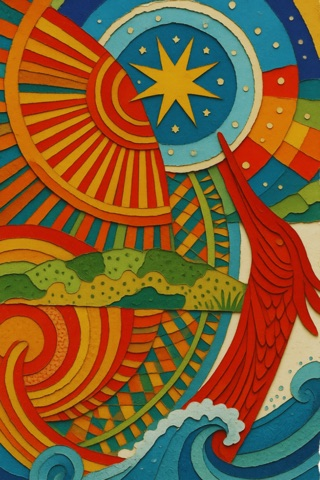
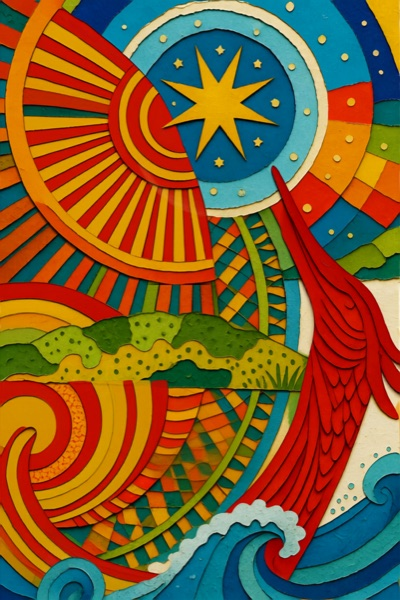
Complete Nicolas website review checklist

diff --git a/index.html b/index.html
@@ -1239,6 +1239,7 @@ dialog.order-dialog::backdrop{background:rgba(12,9,5,.86)}
 }
 </style>
 <link rel="stylesheet" href="assets/web/book-checkin.css">
+<link rel="stylesheet" href="assets/web/nicolas-checklist.css">
 </head>
 <body>
 <a class="skip" href="#t-join" id="skiplink">skip to Join the Hive</a>
@@ -1268,8 +1269,6 @@ dialog.order-dialog::backdrop{background:rgba(12,9,5,.86)}
           </defs>
         </svg>
         <svg class="hero-bee hero-bee-1" viewBox="0 0 48 48"><use href="#heroBee"/></svg>
-        <svg class="hero-bee hero-bee-2" viewBox="0 0 48 48"><use href="#heroBee"/></svg>
-        <svg class="hero-bee hero-bee-3" viewBox="0 0 48 48"><use href="#heroBee"/></svg>
       </div>
       <div class="wordmark">
         <svg class="wordmark-mark" viewBox="0 0 32 32" aria-hidden="true">
@@ -1322,12 +1321,12 @@ dialog.order-dialog::backdrop{background:rgba(12,9,5,.86)}
             <button class="hc-cell hc-2" type="button" data-jump="t-deck" aria-label="Open The Mantra Deck"><span class="hc-label">The Mantra Deck</span></button>
             <button class="hc-cell hc-3" type="button" data-jump="t-gallery" aria-label="Open The Moody Gallery"><span class="hc-label">The Moody<br>Gallery</span></button>
             <button class="hc-cell hc-4" type="button" data-jump="t-puzzles" aria-label="Open The Jigsaw Puzzles"><span class="hc-label">The Jigsaw<br>Puzzles</span></button>
-            <span class="hc-cell hc-5 hc-placeholder" role="status" aria-label="The Coloring Book, coming soon"><span class="hc-label">The Coloring<br>Book</span></span>
-            <button class="hc-cell hc-6" type="button" data-jump="t-podcast" aria-label="Open The Podcast, Nico and The Cool Kids"><span class="hc-label">The Podcast<br>Nico &amp; The Cool Kids</span></button>
-            <button class="hc-cell hc-7" type="button" data-jump="t-yours" aria-label="Open Make It Yours Community Products"><span class="hc-label">Make It Yours<br>Community Products</span></button>
+            <button class="hc-cell hc-5" type="button" data-jump="t-coloring" aria-label="Open The Coloring Book"><span class="hc-label">The Coloring<br>Book</span></button>
+            <button class="hc-cell hc-6" type="button" data-jump="t-podcast" aria-label="Open The Podcast, Nikko and The Kool Kids"><span class="hc-label">The Podcast<br>Nikko &amp; The Kool Kids</span></button>
+            <button class="hc-cell hc-7" type="button" data-jump="t-yours" aria-label="Open Make It Yours! Customs Products"><span class="hc-label">Make It Yours!<br>Customs Products</span></button>
             <button class="hc-cell hc-8" type="button" data-jump="t-market" aria-label="Open The Community Market"><span class="hc-label">The Community<br>Market</span></button>
             <button class="hc-cell hc-9" type="button" data-jump="t-story" aria-label="Open The Story"><span class="hc-label">The Story</span></button>
-            <span class="hc-cell hc-10 hc-placeholder" role="status" aria-label="Under Construction"><span class="hc-label">Under<br>Construction</span></span>
+            <span class="hc-cell hc-10 hc-placeholder" role="status" aria-label="Under Construction"><span class="hc-label">Under<br>Construction…</span></span>
           </div>
         </nav>
       </div>
@@ -1396,20 +1395,47 @@ dialog.order-dialog::backdrop{background:rgba(12,9,5,.86)}
             <div class="puzzle-tin-lid"><img src="assets/prints/sun-stone-theory.jpg" alt=""></div>
             <div class="puzzle-tin-side"><span>The Sun Bird</span><span>1,000 pieces</span></div>
           </div>
+          <figure class="puzzle-cut-preview">
+            <img src="assets/web/sun-bird-puzzle-outline.webp" alt="The complete Sun Bird artwork overlaid with the actual 1,000-piece jigsaw cut pattern" loading="lazy" width="800" height="1200">
+            <figcaption class="hand">The full 1,000-piece cut preview—so you can see exactly what arrives.</figcaption>
+          </figure>
           <div class="puzzle-product-copy">
             <p class="hand">the real challenge</p>
             <h3>The Sun Bird · 1,000 pieces</h3>
-            <p>Nicolas’s intricate torn-paper world, transformed into a full-size, high-gloss jigsaw and tucked inside a premium metal presentation tin.</p>
+            <p>Nicolas’s vivid torn-paper world, transformed into a full-size, high-gloss jigsaw and tucked inside a portrait metal presentation tin.</p>
             <ul class="puzzle-facts">
               <li>1,000 pressed-paperboard pieces</li>
               <li>765 × 525 mm when complete</li>
-              <li>Sun Bird artwork printed on the tin lid</li>
+              <li>Portrait Sun Bird artwork printed on the tin lid</li>
             </ul>
             <a class="tag-btn puzzle-checkout" id="sunBirdCheckout" aria-disabled="true">Stripe checkout link coming shortly</a>
-            <p class="puzzle-checkout-note">The puzzle is ready for its checkout link. No payment is collected here yet.</p>
+            <p class="puzzle-checkout-note"><strong>Made to order and final sale.</strong> Please review the artwork, dimensions, tin, and piece-cut preview before purchasing. No payment is collected here yet.</p>
           </div>
         </article>
       </div>
+    </div>
+  </section>
+
+  <!-- COLORING BOOK -->
+  <section class="tier below coloring-tier" id="t-coloring" data-title="The Coloring Book" aria-label="The Coloring Book" hidden>
+    <div class="tier-inner coloring-tier-inner">
+      <div class="coloring-copy">
+        <p class="hand coloring-kicker">quiet color, loud imagination</p>
+        <h2>The Sun Bird Coloring Book</h2>
+        <p class="coloring-lede">Nicolas’s layered paper universe is opening up into lines you can finish your own way. The first book is being shaped around intricate Sun Bird pages—calm enough to settle into, curious enough to keep discovering.</p>
+        <ul class="coloring-facts">
+          <li>Detailed line art drawn from the To Bee Honest universe</li>
+          <li>Thick, single-sided pages planned for pencils and markers</li>
+          <li>Final page count, format, and price are still being confirmed</li>
+        </ul>
+        <a class="tag-btn" href="#t-join" data-jump="t-join">tell me when it is ready</a>
+        <p class="coloring-truth hand">A real preview—not a checkout. We will announce the finished edition before taking payment.</p>
+      </div>
+      <figure class="coloring-product">
+        <span class="coloring-sun" aria-hidden="true"></span>
+        <img src="assets/web/coloring-book-mockup.webp" alt="Realistic preview of The Sun Bird Coloring Book with a pale illustrated cover, visible line-art pages, and colored pencils" loading="lazy" width="1000" height="1250">
+        <figcaption class="hand">Product rendering based on Nicolas’s supplied line art.</figcaption>
+      </figure>
     </div>
   </section>
 
@@ -1705,20 +1731,14 @@ dialog.order-dialog::backdrop{background:rgba(12,9,5,.86)}
   <section class="tier below" id="t-story" data-title="The Story" aria-label="The Story" hidden>
     <div class="tier-inner">
       <div class="ch-head"><h2>Not a lecture. A conversation.</h2><p class="hand">— the whole idea, honestly</p></div>
-      <div class="two-col">
-        <div>
+      <article class="story-letter">
           <p>I have experienced first hand, as I am sure most of us, how hard life can be - the overwhelming uphill battle to find peace and purpose within the current measures of success. But I decided to try something different.</p>
           <p>Life is an overlooked precious gift, it should ignite excitement however we seem to all feel overwhelmed most of the time. Now, since we all are creators and artists, we can create a world that allows everyone to be themselves in conditions where all thrive, because that is possible.</p>
           <p>These were the grounds that let the “To Bee Honest” universe flourish. I thought we would be starting with beekeeping, since bees are essential to life and the world, understand the benefits of working together, producing honey and embodying their sense of community; I kept the community part and went into art instead (for now?), things change, I did too.</p>
           <p>The imagined universe revolves around appreciation for life, nature, love, peace, passion, playfulness, magic, and most importantly: people. We are unique and different, that must be celebrated and cherished, something we might have forgotten along the way.</p>
           <blockquote class="quote-card"><p class="big-hand hand">“When we find our way back to ourselves, we remember life is beautiful, community is key, magic is everywhere, people are powerful. Let me remind you of that.”</p></blockquote>
-        </div>
-        <div class="polaroid pol-front story-polaroid">
-          <span class="tape" aria-hidden="true"></span>
-          <img src="assets/web/cover-hero.jpg" alt="The softened sky-only Sun Stone artwork">
-          <span class="hand" style="display:block;text-align:center;margin-top:.8rem">the real thing — cut, torn &amp; glued</span>
-        </div>
-      </div>
+          <p class="story-signature hand">Nicolas – Nikko</p>
+      </article>
     </div>
   </section>
 
@@ -1829,12 +1849,12 @@ dialog.order-dialog::backdrop{background:rgba(12,9,5,.86)}
   </section>
 
   <!-- PODCAST -->
-  <section class="tier below" id="t-podcast" data-title="The Podcast — Nikko &amp; The Cool Kids" aria-label="The Podcast — Nikko &amp; The Cool Kids" hidden>
+  <section class="tier below" id="t-podcast" data-title="The Podcast — Nikko &amp; The Kool Kids" aria-label="The Podcast — Nikko &amp; The Kool Kids" hidden>
     <div class="podcast-art" aria-hidden="true"><img src="assets/web/nico-signing-only-v2.jpg" alt="" loading="lazy"></div>
     <div class="tier-inner">
       <div class="podcast-teaser">
         <span class="kicker">The Podcast — coming</span>
-        <h2>Nikko &amp; The Cool Kids</h2>
+        <h2>Nikko &amp; The Kool Kids</h2>
         <p class="eyebrow hand" style="margin-bottom:.6rem">Stories · art · honest conversations</p>
         <p>Nikko and the people who make things with him pull one mantra apart at a time—through art, stories, and conversations that stay honest.</p>
         <a class="tag-btn" href="#t-join" data-jump="t-join">tell me when it drops</a>
@@ -1873,11 +1893,6 @@ dialog.order-dialog::backdrop{background:rgba(12,9,5,.86)}
               </a>
             </div>
             <div class="directory-row">
-              <div class="directory-cell" role="listitem">
-                <img src="assets/IMG_5190.jpeg" alt="To Bee Honest bee and flower logo" loading="lazy">
-                <h4>To Bee Honest</h4>
-                <p>Art, books, mantras, and honest creative work by Nicolas Bettinger.</p>
-              </div>
               <a class="directory-cell madyson-listing" role="listitem" href="https://www.madysons.art/" target="_blank" rel="noopener noreferrer" aria-label="Visit Art by Madyson website">
                 <img src="assets/web/madyson-directory.webp" alt="Madyson's painted portrait of a woman with green hair, red glasses, and pink bubblegum" loading="lazy">
                 <span class="directory-listing-copy"><h4>Art by Madyson</h4><p>Original acrylic art, prints &amp; commissions.</p></span>

diff --git a/assets/web/nicolas-checklist.css b/assets/web/nicolas-checklist.css
@@ -1,0 +1,177 @@
+/* Nicolas's August 13 review checklist — presentation-only refinements. */
+
+/* The 10% cell scale was already in place. Move the complete lattice upward without
+   changing its edge-sharing geometry or the mobile 2-by-2-by-2-by-2-by-2 order. */
+@media (min-width:1051px){
+  .cover-honeycomb{top:47svh}
+}
+@media (min-width:561px) and (max-width:1050px){
+  .cover-honeycomb{margin-top:0}
+}
+@media (max-width:560px){
+  .cover-honeycomb{margin-top:2.7rem}
+  .cover-honeycomb .hc-6 .hc-label,
+  .cover-honeycomb .hc-7 .hc-label{font-size:clamp(.79rem,3.82vw,1rem);max-width:88%;transform:none}
+}
+
+/* Niko's supplied fronts contain a narrow baked-in paper border. Overscanning inside
+   the existing torn mask removes that false white frame without altering 54 masters. */
+.card-front.has-photo .card-photo{
+  inset:-4%;
+  width:108%;
+  height:108%;
+  max-width:none;
+}
+
+/* The production tin is portrait, not the former landscape placeholder. The cut-map
+   sits beside it so the final-sale product can be reviewed before checkout. */
+.puzzle-product{
+  display:grid;
+  grid-template-columns:minmax(145px,.72fr) minmax(180px,1fr);
+  gap:1.15rem 1.35rem;
+  align-items:center;
+}
+.puzzle-tin{
+  grid-column:1;
+  width:min(100%,210px);
+  aspect-ratio:2/3;
+  margin:0 auto;
+  transform:rotate(-2deg);
+}
+.puzzle-tin-lid{inset:0 0 10% 0;border-radius:16px;padding:7px}
+.puzzle-tin-lid img{object-position:center;border-radius:8px}
+.puzzle-tin-side{left:5%;right:5%;height:16%;padding:.35rem .45rem;font-size:.62rem}
+.puzzle-cut-preview{grid-column:2;margin:0;text-align:center}
+.puzzle-cut-preview img{
+  display:block;
+  width:min(100%,220px);
+  height:auto;
+  aspect-ratio:2/3;
+  object-fit:cover;
+  margin:0 auto .45rem;
+  border:5px solid #fffaf0;
+  box-shadow:0 9px 20px rgba(55,36,17,.23);
+  transform:rotate(1.2deg);
+}
+.puzzle-cut-preview figcaption{font-size:.78rem;line-height:1.25;color:#704519}
+.puzzle-product-copy{grid-column:1/-1}
+.puzzle-checkout-note strong{color:#704519}
+
+/* Coloring Book — a live destination with honest pre-launch language. */
+#t-coloring{--tier-bg:#eee2c8;background:#eee2c8}
+.coloring-tier::before{
+  content:"";
+  position:absolute;
+  inset:0;
+  pointer-events:none;
+  opacity:.62;
+  background:
+    radial-gradient(circle at 10% 18%,rgba(242,189,47,.2) 0 2px,transparent 3px),
+    radial-gradient(circle at 84% 72%,rgba(108,140,117,.18) 0 1px,transparent 2px),
+    repeating-linear-gradient(118deg,transparent 0 29px,rgba(107,75,40,.035) 30px 31px);
+  background-size:37px 41px,31px 35px,auto;
+}
+.coloring-tier-inner{
+  position:relative;
+  z-index:1;
+  display:grid;
+  grid-template-columns:minmax(0,.85fr) minmax(340px,1.15fr);
+  gap:clamp(2rem,5vw,5rem);
+  align-items:center;
+  max-width:1220px;
+}
+.coloring-copy{max-width:590px}
+.coloring-kicker{color:#8b5109;margin:0 0 .25rem}
+.coloring-copy h2{font-size:clamp(2.7rem,5.3vw,5.4rem);line-height:.92;margin:0 0 1.2rem;text-wrap:balance}
+.coloring-lede{font-size:clamp(1.08rem,1.7vw,1.3rem);line-height:1.55}
+.coloring-facts{list-style:none;padding:0;margin:1.35rem 0 1.65rem;display:grid;gap:.62rem}
+.coloring-facts li{position:relative;padding-left:1.45rem;line-height:1.45}
+.coloring-facts li::before{
+  content:"";
+  position:absolute;
+  left:0;
+  top:.47em;
+  width:.72rem;
+  height:.72rem;
+  background:#e9a413;
+  clip-path:polygon(25% 7%,75% 7%,100% 50%,75% 93%,25% 93%,0 50%);
+}
+.coloring-truth{max-width:48ch;font-size:.82rem;line-height:1.35;margin:.75rem 0 0;opacity:.75}
+.coloring-product{position:relative;margin:0;text-align:center;isolation:isolate}
+.coloring-product::before,.coloring-product::after{
+  content:"";
+  position:absolute;
+  z-index:-1;
+  border-radius:50%;
+  border:2px solid rgba(211,132,18,.28);
+}
+.coloring-product::before{width:70%;aspect-ratio:1;right:-4%;top:-8%;box-shadow:0 0 0 18px rgba(242,189,47,.08),0 0 0 38px rgba(31,143,168,.06)}
+.coloring-product::after{width:42%;aspect-ratio:1;left:-5%;bottom:6%;box-shadow:0 0 0 14px rgba(93,139,106,.08)}
+.coloring-product img{
+  display:block;
+  width:min(100%,580px);
+  height:auto;
+  margin:0 auto .7rem;
+  filter:drop-shadow(0 20px 22px rgba(75,50,22,.2));
+  clip-path:polygon(1% 0,99% .8%,100% 99%,2% 100%,0 2%);
+  transform:rotate(.6deg);
+}
+.coloring-product figcaption{font-size:.85rem;color:#79552f}
+
+/* Story — remove the redundant bottom photograph and let the words live on one playful,
+   signed sheet. The concentric marks echo the restored hive wordmark. */
+#t-story{
+  --tier-bg:#efdfc5;
+  background:
+    radial-gradient(circle at 9% 17%,transparent 0 27px,rgba(231,156,25,.2) 28px 30px,transparent 31px 43px,rgba(31,143,168,.13) 44px 47px,transparent 48px),
+    radial-gradient(circle at 91% 79%,transparent 0 34px,rgba(210,75,43,.12) 35px 38px,transparent 39px 55px,rgba(93,139,106,.15) 56px 60px,transparent 61px),
+    #efdfc5;
+}
+#t-story .tier-inner{max-width:920px}
+.story-letter{
+  position:relative;
+  padding:clamp(1.5rem,4vw,3.1rem);
+  background:rgba(255,251,240,.9);
+  filter:drop-shadow(0 16px 24px rgba(70,53,31,.18));
+  clip-path:polygon(0 1.3%,4% 0,10% 1.2%,17% .2%,25% 1.4%,34% .1%,44% 1.1%,55% .2%,66% 1.4%,77% .2%,88% 1.2%,96% .1%,100% 1.1%,99.5% 98.6%,93% 100%,84% 98.8%,74% 99.8%,63% 98.7%,52% 100%,41% 98.8%,30% 99.8%,20% 98.7%,9% 100%,.4% 98.5%);
+}
+.story-letter::before{
+  content:"";
+  position:absolute;
+  width:88px;
+  aspect-ratio:1;
+  right:2rem;
+  top:1.7rem;
+  border-radius:50%;
+  border:2px solid rgba(224,145,17,.28);
+  box-shadow:0 0 0 9px rgba(224,145,17,.07),0 0 0 17px rgba(31,143,168,.06);
+  pointer-events:none;
+}
+.story-letter>p{max-width:72ch;margin:0 auto 1rem;line-height:1.62}
+.story-letter .quote-card{max-width:68ch;margin:1.6rem auto}
+.story-signature{font-size:1.2rem;text-align:right;padding-right:1rem;margin-top:1.4rem!important;color:#7c4c17}
+
+@media (max-width:820px){
+  .puzzle-product{grid-template-columns:minmax(125px,.72fr) minmax(150px,1fr)}
+  .puzzle-tin{width:min(100%,180px)}
+  .puzzle-cut-preview img{width:min(100%,185px)}
+  .coloring-tier-inner{grid-template-columns:1fr;gap:1.4rem;padding-top:4.4rem;padding-bottom:2.5rem}
+  .coloring-copy{text-align:center;margin:0 auto}
+  .coloring-facts{text-align:left;max-width:590px;margin-left:auto;margin-right:auto}
+  .coloring-product{width:min(68vw,320px);margin:0 auto}
+  .coloring-copy h2{font-size:clamp(2.45rem,11vw,4rem)}
+}
+
+@media (max-width:520px){
+  .puzzle-product{grid-template-columns:1fr 1fr;gap:.9rem;padding:1.4rem 1rem}
+  .puzzle-tin{width:min(100%,145px)}
+  .puzzle-cut-preview img{width:min(100%,150px);border-width:3px}
+  .puzzle-tin-side{font-size:.5rem}
+  .puzzle-product-copy{margin-top:.15rem}
+  .story-letter{padding:1.55rem 1.2rem 1.8rem}
+  .story-letter::before{width:58px;right:1rem;top:1rem}
+}
+
+@media (prefers-reduced-motion:reduce){
+  .coloring-product img{transform:none}
+}

diff --git a/test/nicolas-checklist.test.js b/test/nicolas-checklist.test.js
@@ -1,0 +1,51 @@
+import assert from 'node:assert/strict';
+import { existsSync, readFileSync } from 'node:fs';
+import test from 'node:test';
+
+const html = readFileSync(new URL('../index.html', import.meta.url), 'utf8');
+const checklistCss = readFileSync(new URL('../assets/web/nicolas-checklist.css', import.meta.url), 'utf8');
+
+test('the latest vivid Sun Bird and cut-map assets are installed', () => {
+  assert.equal(existsSync(new URL('../assets/prints/sun-stone-theory.jpg', import.meta.url)), true);
+  assert.equal(existsSync(new URL('../assets/web/sun-bird-puzzle-outline.webp', import.meta.url)), true);
+  assert.match(html, /assets\/web\/sun-bird-puzzle-outline\.webp/);
+  assert.match(html, /The full 1,000-piece cut preview/);
+});
+
+test('the Book begins with a problem, a solution handoff, and Nicolas preface', () => {
+  assert.match(html, /How are you—really\?/);
+  assert.match(html, /This is not a book about pretending to feel better\./);
+  assert.match(html, /Read Nicolas’s preface/);
+});
+
+test('mantra fronts crop the baked-in white border without changing master files', () => {
+  assert.match(checklistCss, /\.card-front\.has-photo \.card-photo\s*\{/);
+  assert.match(checklistCss, /inset:-4%/);
+  assert.match(checklistCss, /width:108%/);
+});
+
+test('the Coloring Book is a working destination with an honest product preview', () => {
+  assert.match(html, /id="t-coloring"/);
+  assert.match(html, /assets\/web\/coloring-book-mockup\.webp/);
+  assert.match(html, /A real preview—not a checkout/);
+  assert.doesNotMatch(html, /hc-5 hc-placeholder/);
+});
+
+test('puzzle presentation is portrait, explicit, and not pretending checkout is live', () => {
+  assert.match(checklistCss, /\.puzzle-tin\s*\{[\s\S]*?aspect-ratio:2\/3/);
+  assert.match(html, /Made to order and final sale\./);
+  assert.match(html, /aria-disabled="true">Stripe checkout link coming shortly/);
+});
+
+test('the Story is signed, has no bottom photograph, and the Marketplace placeholder is gone', () => {
+  const story = html.match(/<!-- STORY -->([\s\S]*?)<!-- MAKE IT YOURS -->/)?.[1] ?? '';
+  const market = html.match(/<!-- MARKETPLACE -->([\s\S]*?)<!-- JOIN/)?.[1] ?? '';
+  assert.doesNotMatch(story, /<img\b/);
+  assert.match(story, /Nicolas – Nikko/);
+  assert.doesNotMatch(market, /<h4>To Bee Honest<\/h4>/);
+});
+
+test('only one ambient hero bee remains', () => {
+  const heroBees = html.match(/<div class="hero-bees"[\s\S]*?<\/div>/)?.[0] ?? '';
+  assert.equal((heroBees.match(/class="hero-bee /g) ?? []).length, 1);
+});

diff --git a/test/honeycomb-geometry.test.js b/test/honeycomb-geometry.test.js
@@ -43,13 +43,13 @@ test('the ten hero combs stay in the approved order', () => {
     'The Moody Gallery',
     'The Jigsaw Puzzles',
     'The Coloring Book',
-    'The Podcast Nico &amp; The Cool Kids',
-    'Make It Yours Community Products',
+    'The Podcast Nikko &amp; The Kool Kids',
+    'Make It Yours! Customs Products',
     'The Community Market',
     'The Story',
-    'Under Construction',
+    'Under Construction…',
   ]);
-  assert.match(hero, /hc-5 hc-placeholder/);
+  assert.match(hero, /hc-5"[^>]*data-jump="t-coloring"/);
   assert.match(hero, /hc-10 hc-placeholder/);
   assert.match(hero, /hc-7"[^>]*data-jump="t-yours"/);
   assert.match(hero, /hc-9"[^>]*data-jump="t-story"/);
